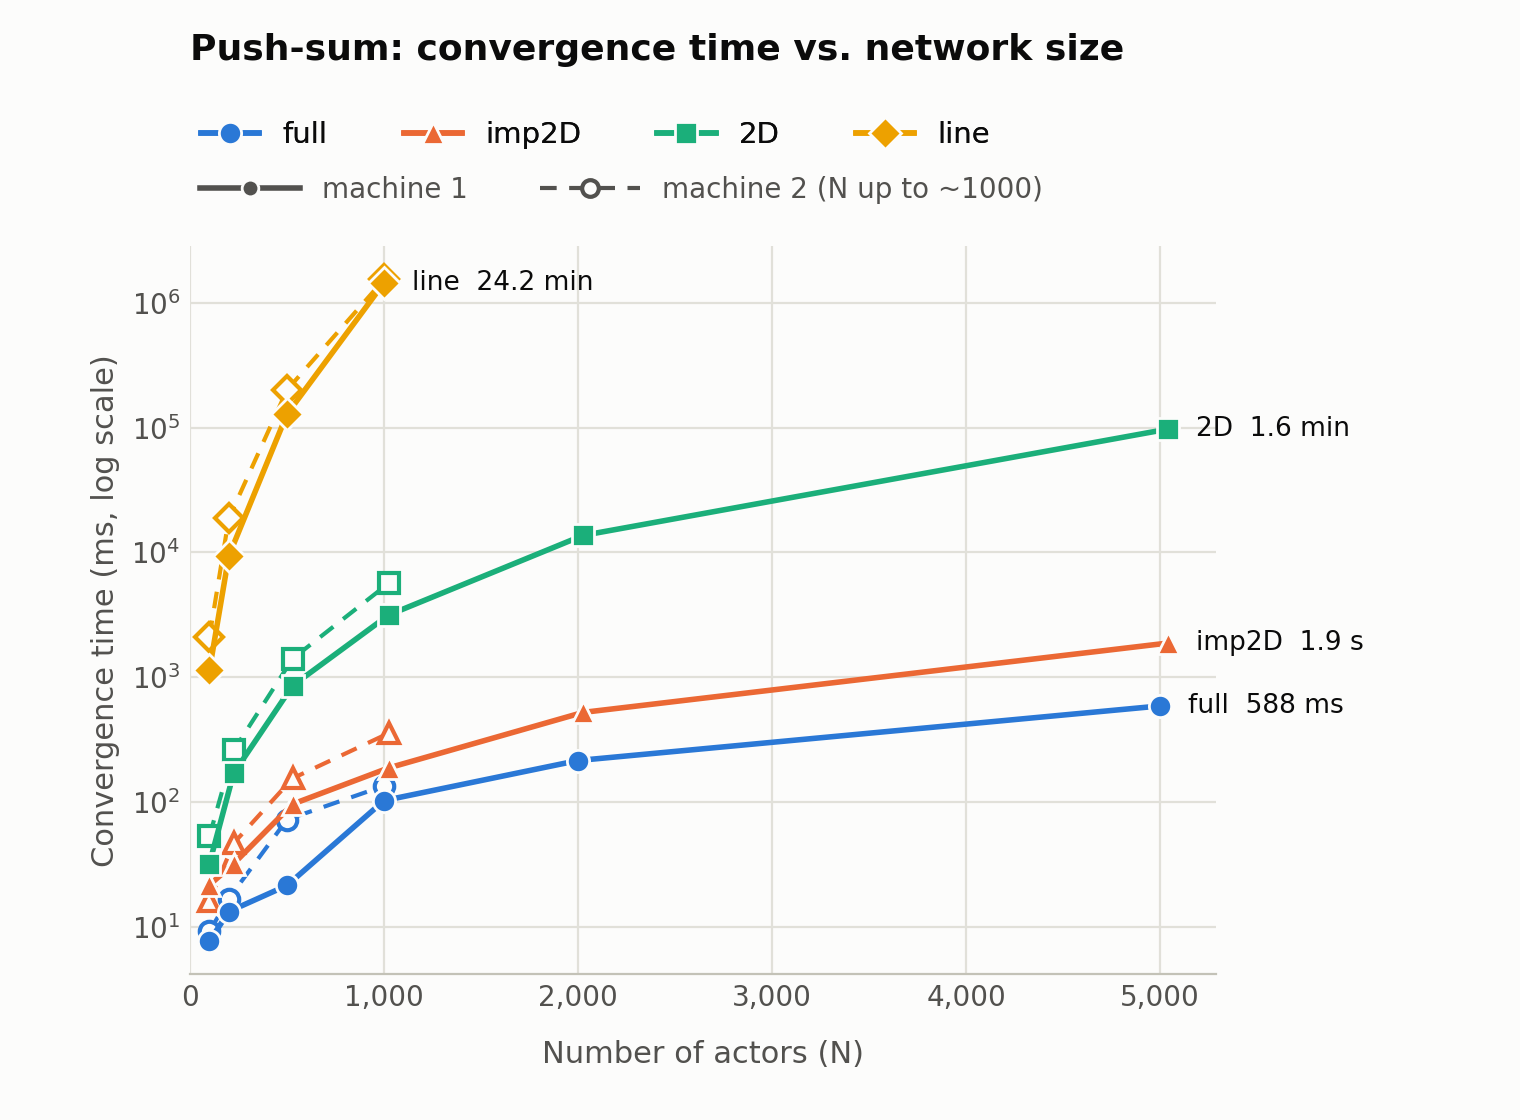
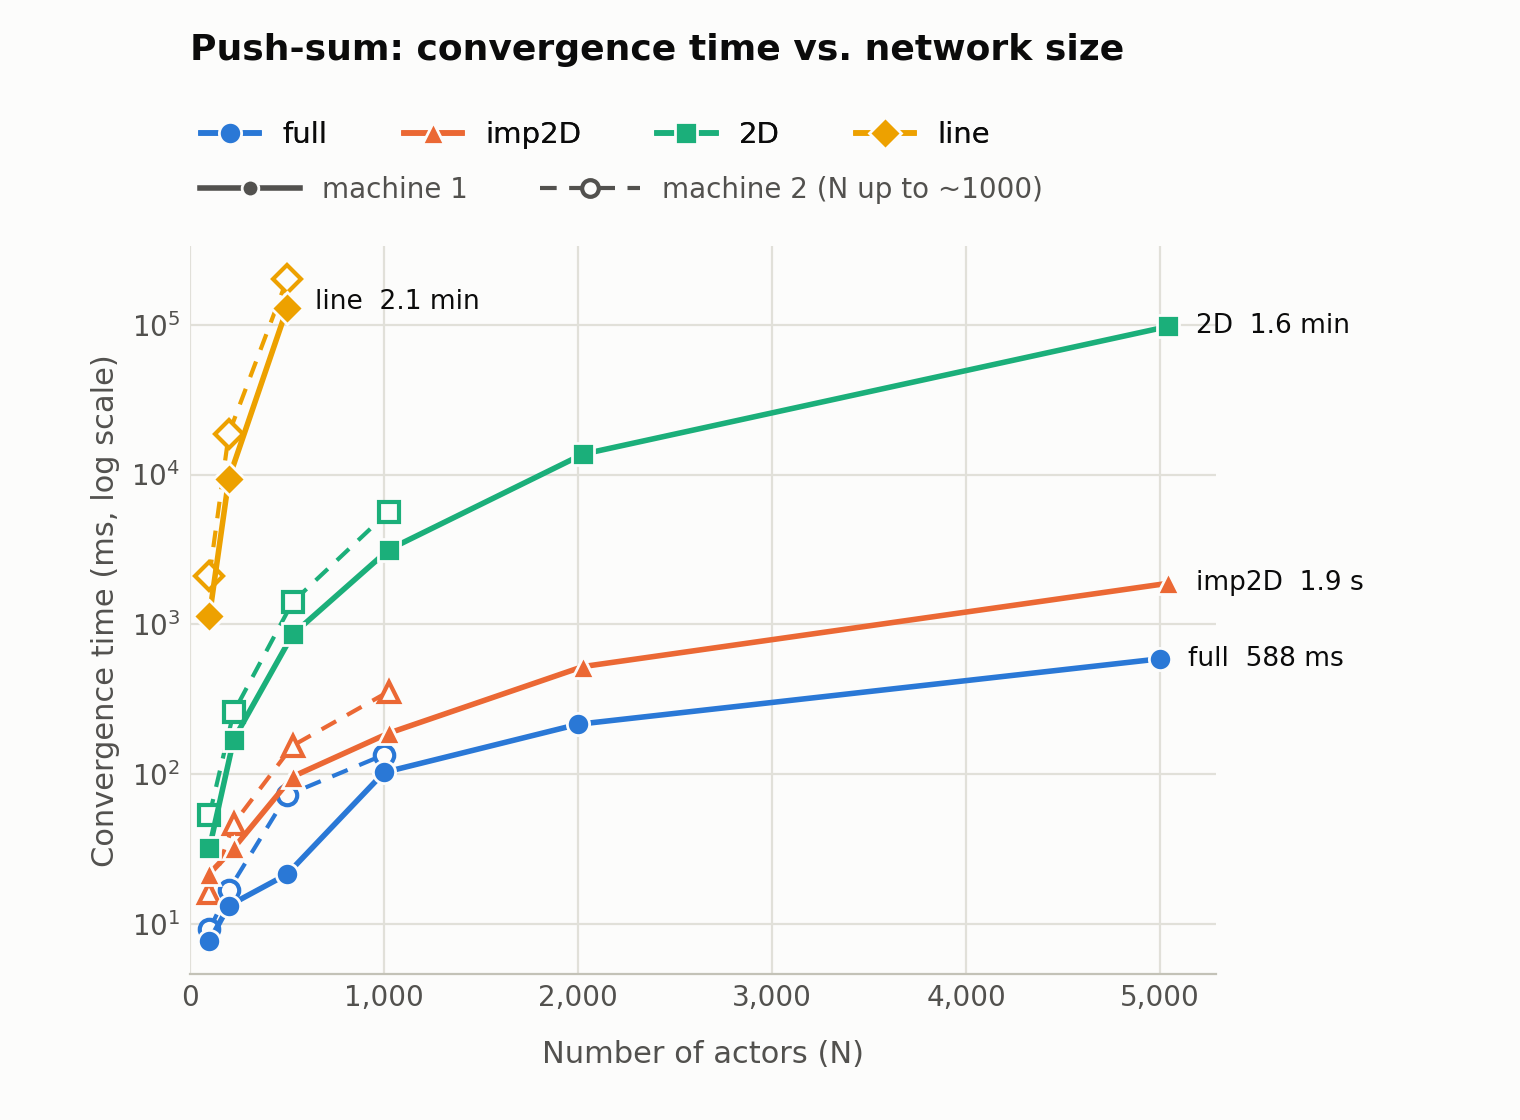
pushsum typo removed. Convergance condition added in the report. Plots regenerated

diff --git a/Report.tex b/Report.tex
@@ -62,6 +62,8 @@ In our implementation, we have defined Convergence for push-sum as every actor h
 Our push-sum is messsage-driven, so only one message is in flight at a time. If a done actor stopped forwarding, that message would be lost and the remaining actors stopped would never converge.
 In every push-sum run the final estimate matched the true average (N+1) /2.
 
+We define convergence for gossip as the moment every actor has heard the rumor at least once.
+
 \subsubsection*{Gossip Algorithm Results}
 \begin{figure}[H]
 \centering
@@ -91,7 +93,7 @@ gossip   & line  & 10000 & 41.0 s   & 1.00 \\
 push-sum & full  & 5000  & 588 ms   & 1.16 \\
 push-sum & imp2D & 5041  & 1.9 s    & 1.17 \\
 push-sum & 2D    & 5041  & 97.5 s   & 2.03 \\
-push-sum & line  & 1000  & 1452.8 s & 3.07 \\
+push-sum & line  & 500   & 128.5 s  & 2.93 \\
 \bottomrule
 \end{tabular}
 
@@ -113,11 +115,11 @@ the grid diameter is about the square root of N).
 N=5041 it is about 7x faster for gossip (71 ms vs 501 ms) and about 50x faster for push-sum (1.9 s vs 97
 s).
 \textbf{Push-sum scales much worse than gossip on sparse topologies.} The exponent is about 2.0 for 2D
-and about 3.1 for the line (1.1 s at N=100, 9.4 s at N=200, 129 s at N=500, 1453 s at N=1000), against about 1.2 for full and
+and about 2.9 for the line (1.1 s at N=100, 9.4 s at N=200, 129 s at N=500), against about 1.2 for full and
 imp2D. In push-sum every actor's ratio must settle, not just receive one message, and only one message
 is in flight at a time, so the pairs have to diffuse slowly across a poorly connected network.
 \textbf{Largest networks:} gossip reached N=10000 on the line and N=5000 or more on the others; push-sum
-reached N=5000 on full, 5041 on imp2D and 2D, and N=1000 on the line.
+reached N=5000 on full, 5041 on imp2D and 2D, and N=500 on the line (It was taking more than 20 minutes on N=1000).
 
 \section{Caveats}
 All measurements for the report and the README come from one machine \textbf{Macbook Pro M3 Pro} , so absolute times depend on the hardware and on how the

diff --git a/readme.md b/readme.md
@@ -107,5 +107,5 @@ last estimate 50.49999999991999, true average 50.5
 |----------|--------|----------|
 | full | 5000 | 5000 |
 | 2D | 5041 | 5041 |
-| line | 10000 | 1000 |
+| line | 10000 | 500 |
 | imp2D | 5041 | 5041 |
